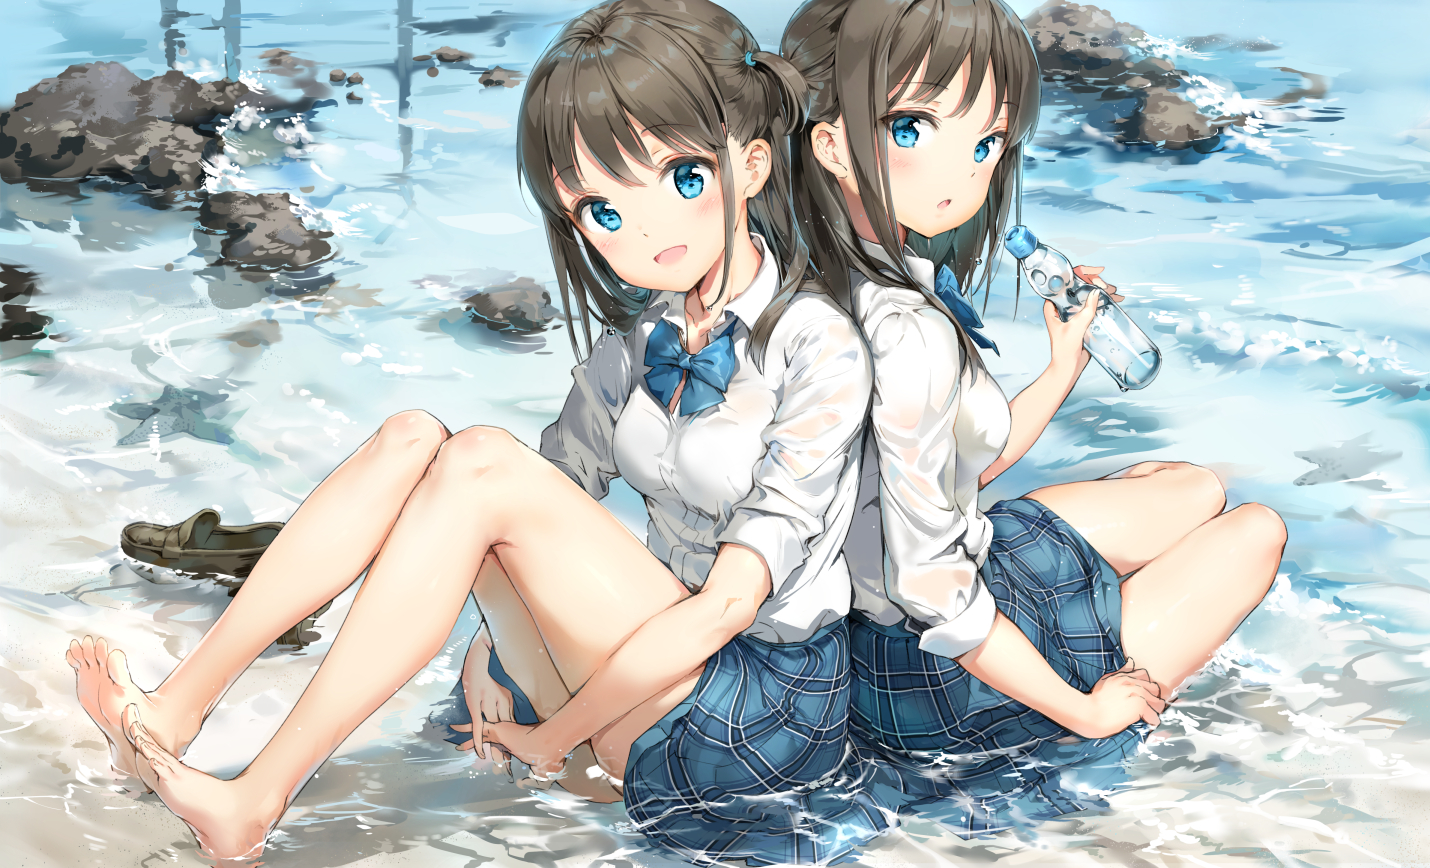
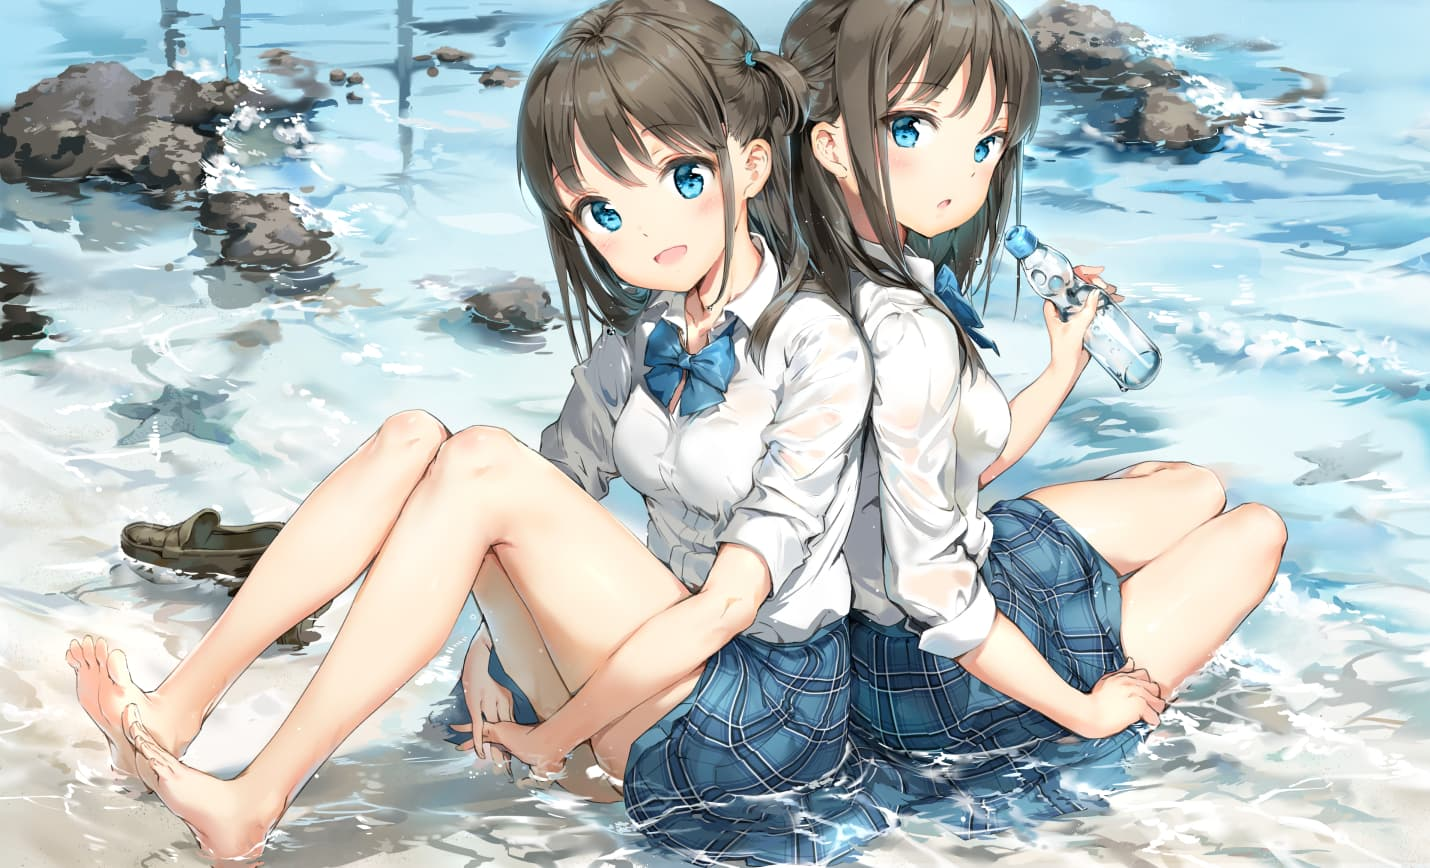
✨ Minify images

diff --git a/source/tags/index.md b/source/tags/index.md
@@ -2,5 +2,5 @@
 title: 标签
 date: 2022-01-01 00:00:00
 type: "tags"
-top_img: /tags/banner.png
+top_img: /tags/banner.jpg
 ---
